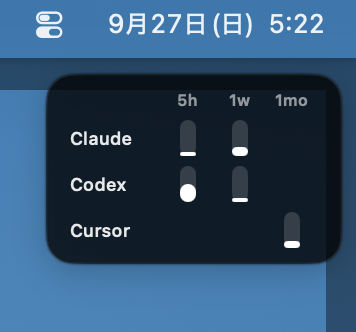
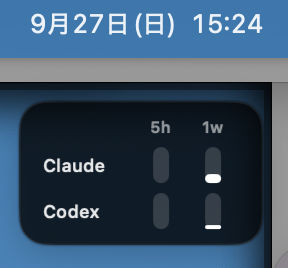
Show the default build in the README, with Claude and Codex only.
Cursor stays optional, and the picture no longer includes that column.

diff --git a/README.md b/README.md
@@ -2,9 +2,9 @@
 
 [日本語](README.ja.md)
 
-A macOS app that shows only the usage of Claude Code and Codex CLI: how much of the limit is used, and when it resets. Cursor can be compiled in separately.
+A macOS app that shows how much of the Claude Code and Codex CLI limits is used, and when they reset. Cursor is not in the default build. It is optional, and only a build with `COAMING_CURSOR=1` includes it.
 
-![Corner indicator. Claude and Codex show 5h and 1w. The Cursor column appears only in a COAMING_CURSOR build.](docs/indicator.jpg)
+![Corner indicator in the default build. Claude and Codex show 5h and 1w. Cursor is not included.](docs/indicator.jpg)
 
 - This app reads login material and does not rewrite it, copy it, or refresh tokens. The Codex CLI may update its own login file
 - This app does not open a connection in the default build. Claude usage comes from local files. Codex usage comes from the local `codex` command, which asks chatgpt.com
@@ -20,7 +20,7 @@ A macOS app that shows only the usage of Claude Code and Codex CLI: how much of 
 
 This app does not use Claude's OAuth token. Anthropic reserves that token for Claude Code and its native apps. The app reads the values Claude Desktop and Claude Code already keep locally.
 
-Cursor does not publish a personal usage API. Reading the local session and polling `cursor.com` sits closest to Cursor's rules against automated access, so the default build leaves Cursor out. `COAMING_CURSOR=1` compiles that path in. Building it is your own decision. The picture above includes that optional column.
+Cursor does not publish a personal usage API. Reading the local session and polling `cursor.com` sits closest to Cursor's rules against automated access, so the default build leaves Cursor out. `COAMING_CURSOR=1` compiles that path in. Building it is your own decision. The picture above is the default build, with Claude and Codex only.
 
 - **If Claude Desktop (including Cowork) is running, the 5-hour and 7-day percents appear with no extra setup** (updated about every 15 minutes; no reset time)
 - Setting the Claude Code status line adds reset times while a session is running
